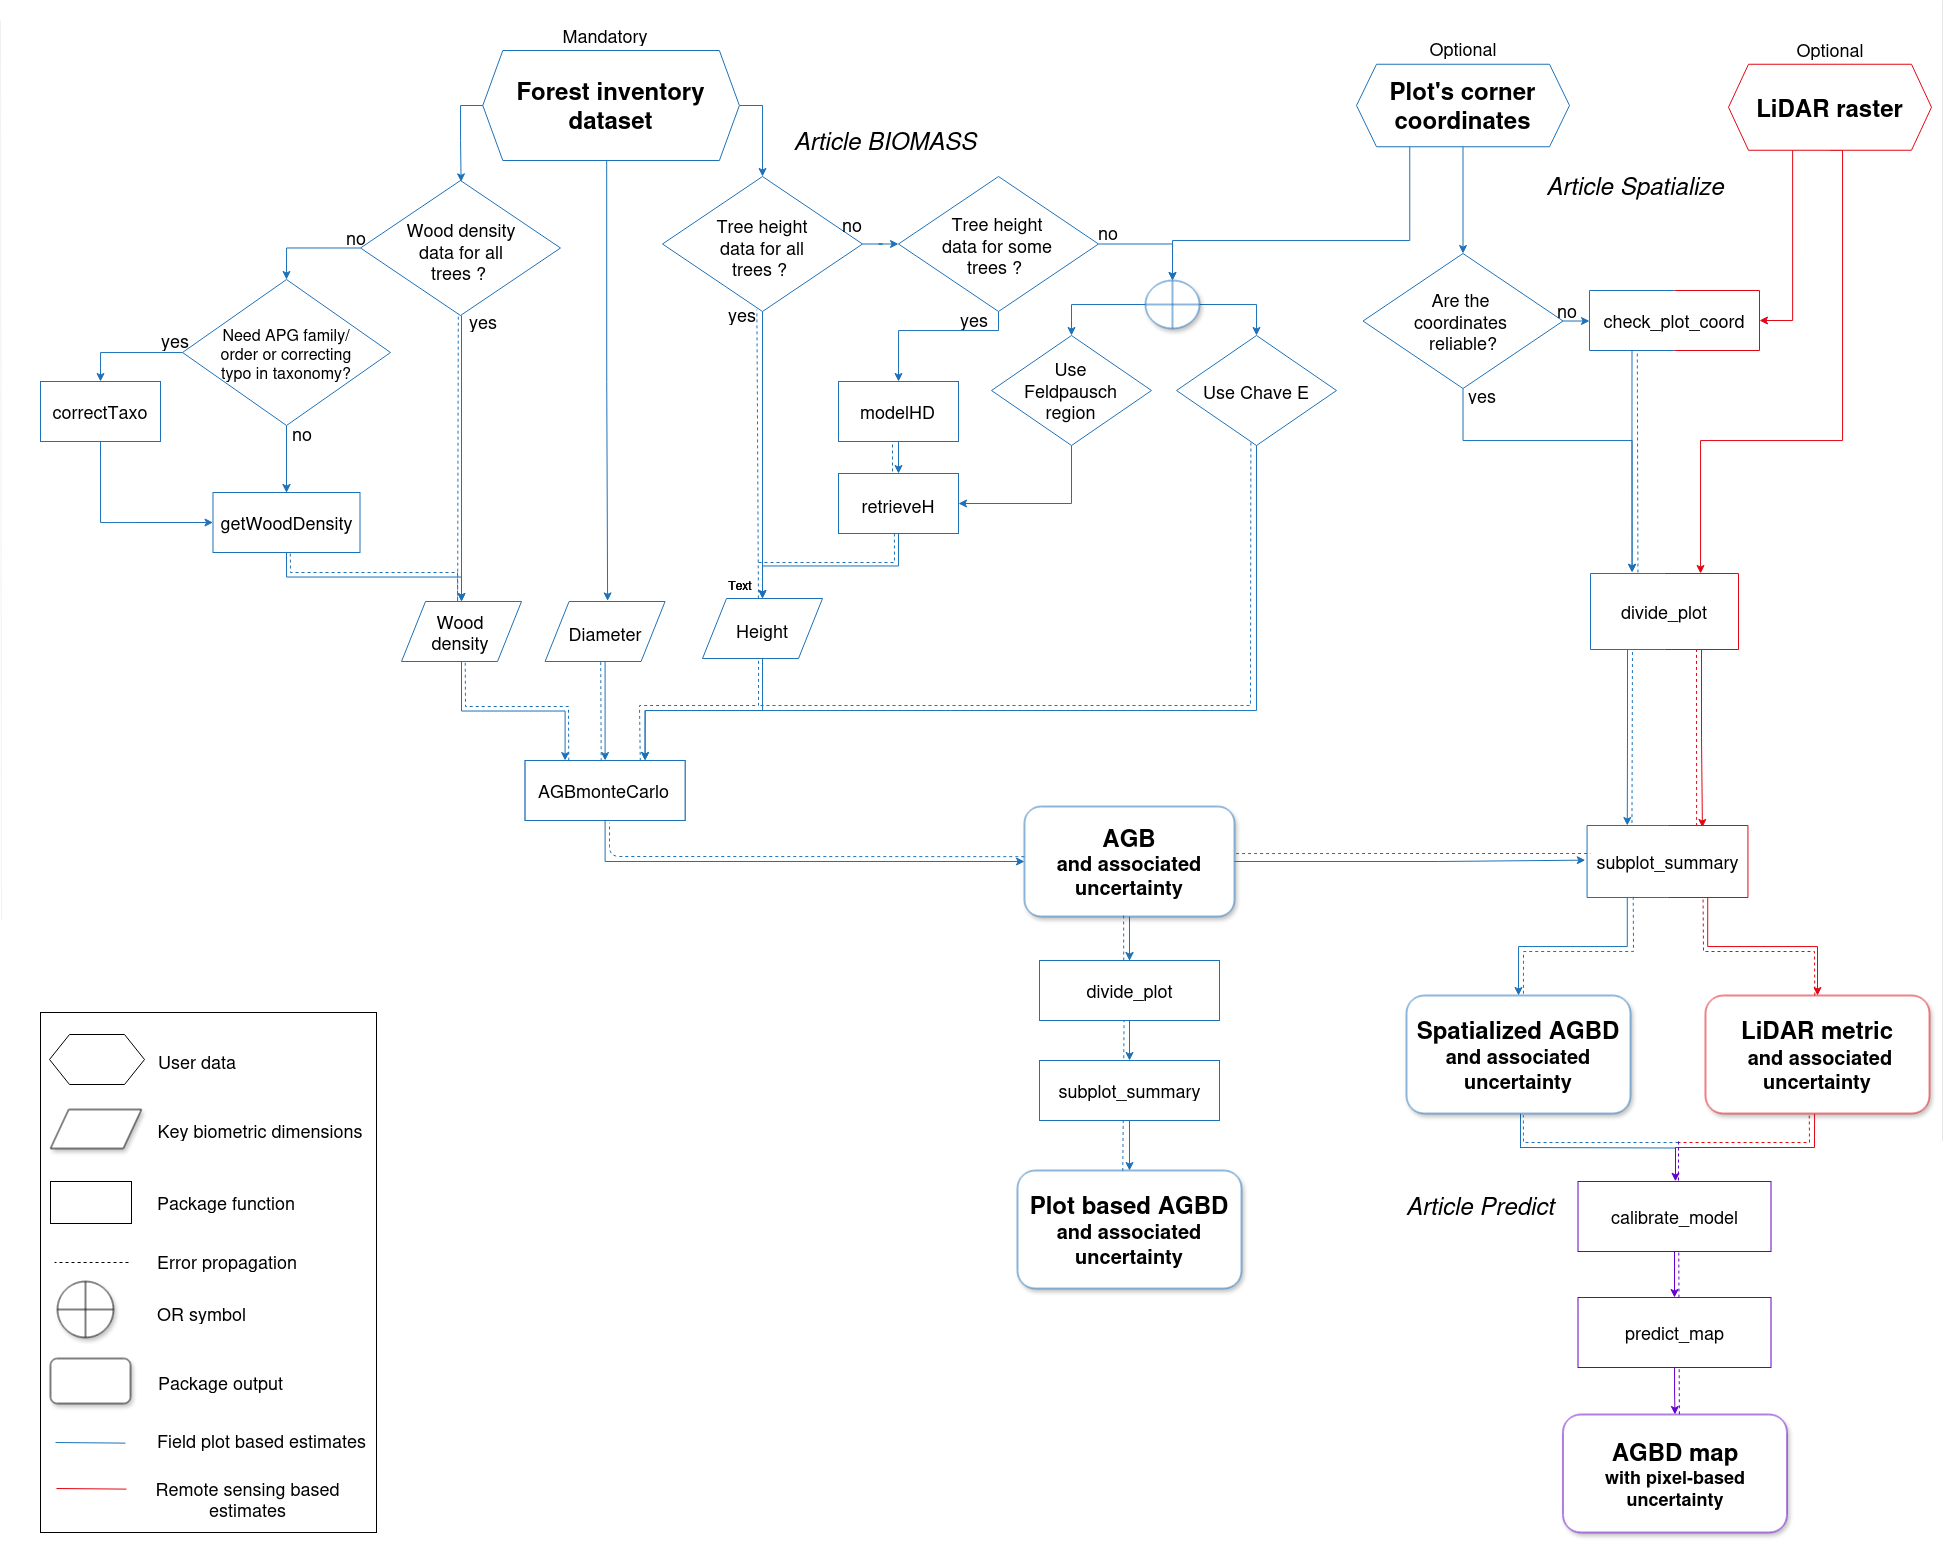
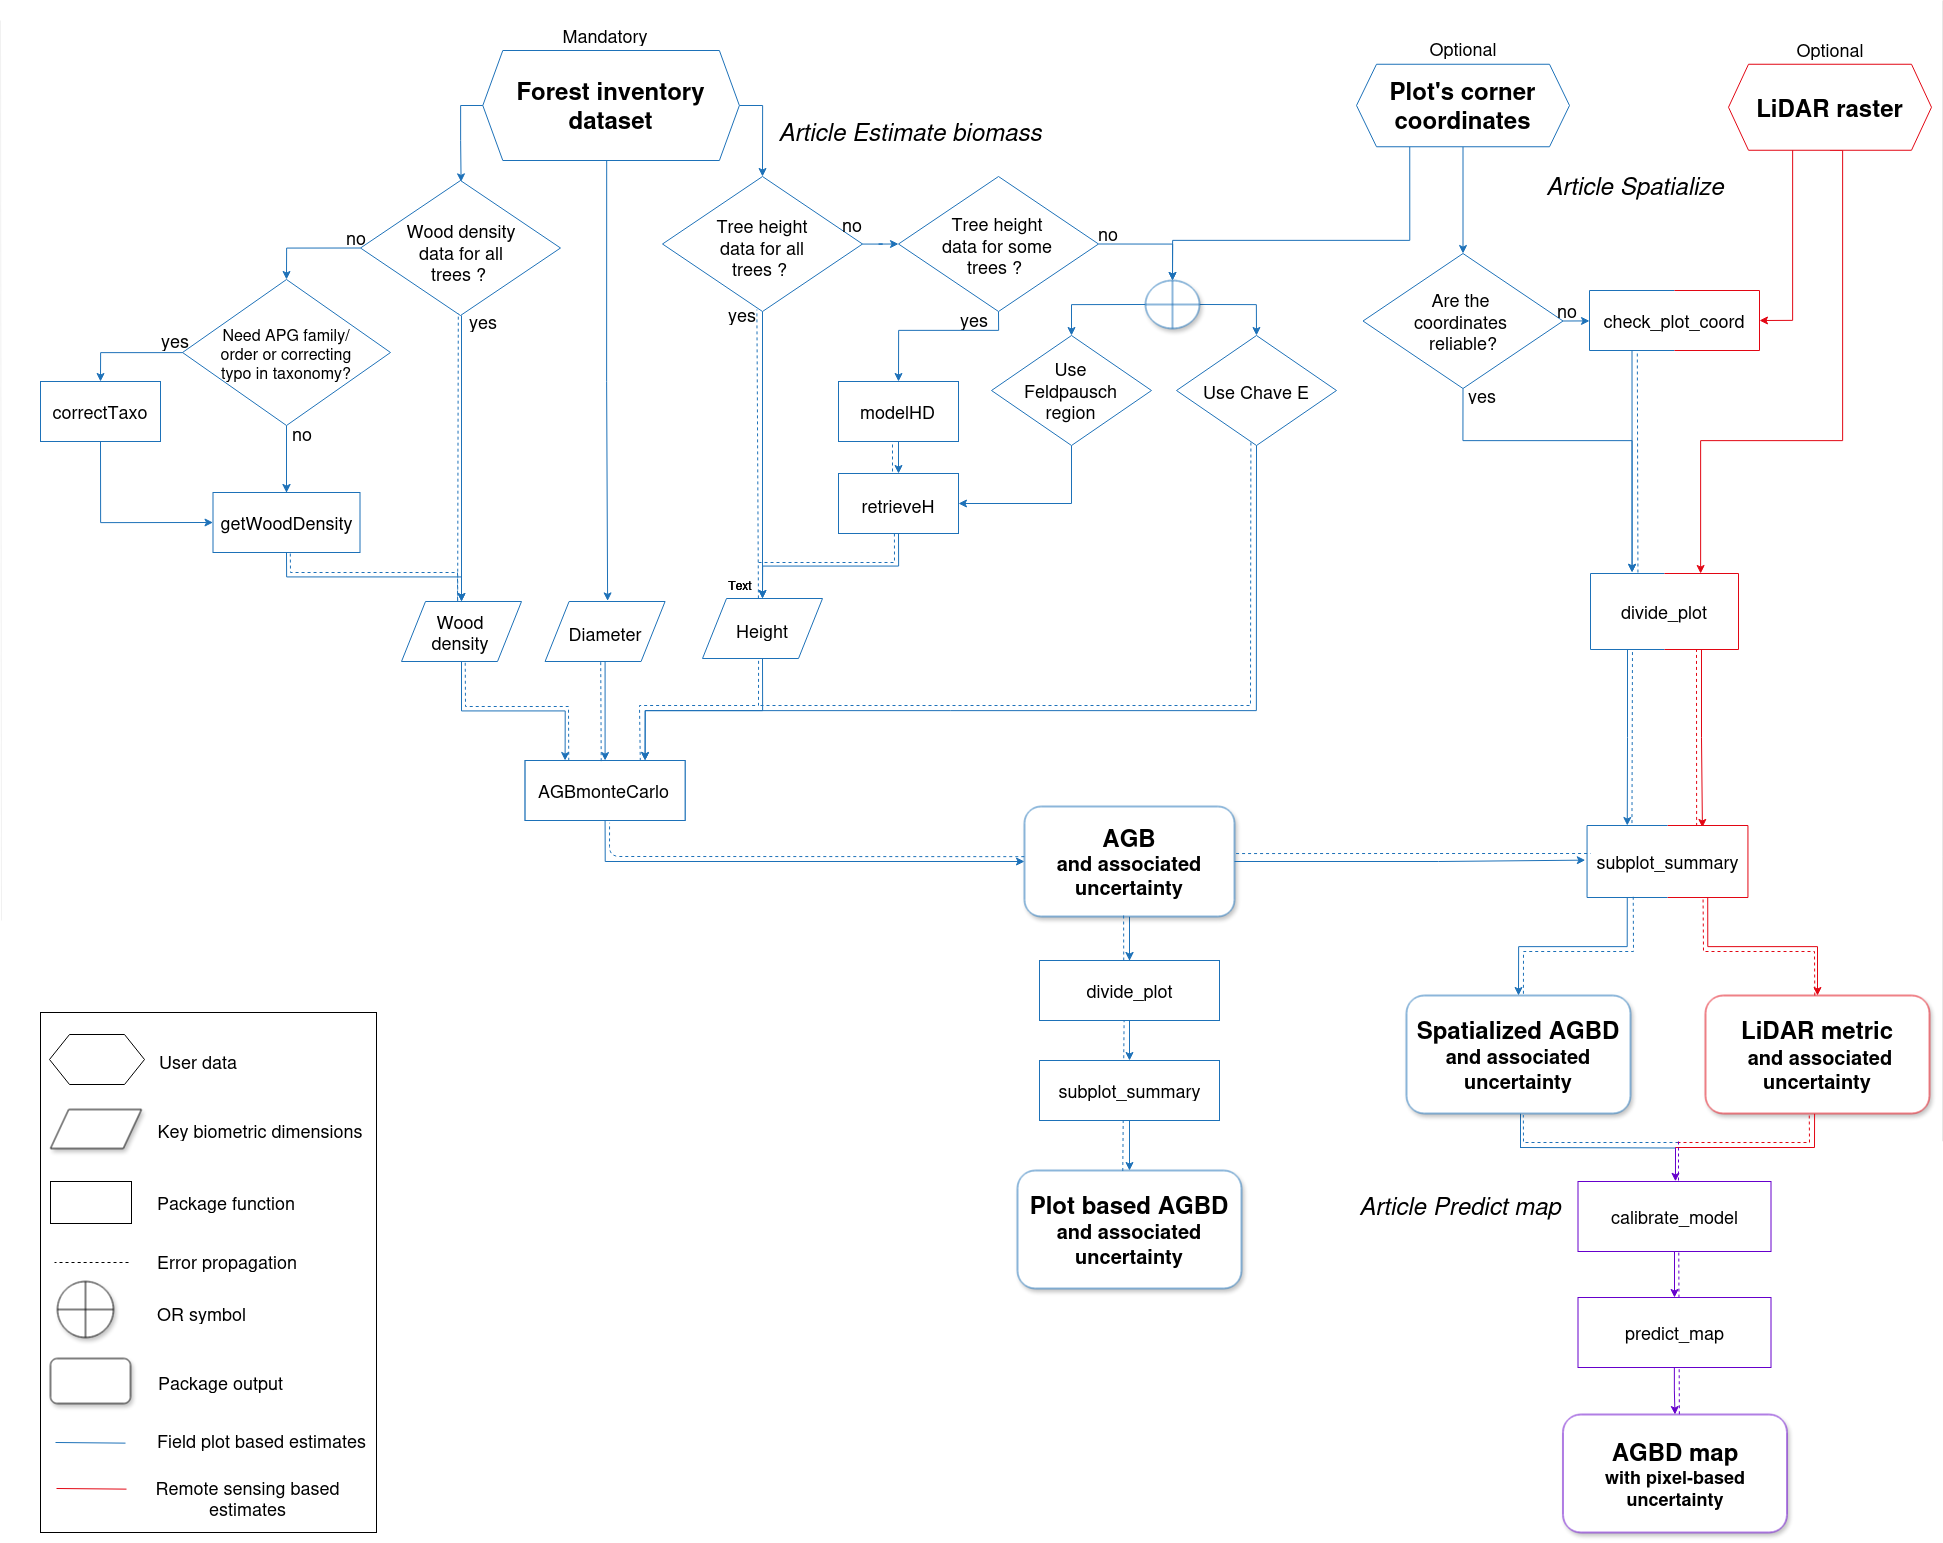
Deploying to gh-pages from @ umr-amap/BIOMASS@d51a38ecaa00d266235edc8b0b0a9cfb012f946a 🚀

diff --git a/articles/Vignette_BIOMASS.html b/articles/Vignette_BIOMASS.html
@@ -5,7 +5,7 @@
 <meta charset="utf-8">
 <meta http-equiv="X-UA-Compatible" content="IE=edge">
 <meta name="viewport" content="width=device-width, initial-scale=1, shrink-to-fit=no">
-<title>Estimating stand biomass • BIOMASS</title>
+<title>Estimate stand biomass • BIOMASS</title>
 <!-- favicons --><link rel="icon" type="image/png" sizes="96x96" href="../favicon-96x96.png">
 <link rel="icon" type="”image/svg+xml”" href="../favicon.svg">
 <link rel="apple-touch-icon" sizes="180x180" href="../apple-touch-icon.png">
@@ -15,10 +15,10 @@
 <link href="../deps/bootstrap-5.3.1/bootstrap.min.css" rel="stylesheet">
 <script src="../deps/bootstrap-5.3.1/bootstrap.bundle.min.js"></script><link href="../deps/font-awesome-6.5.2/css/all.min.css" rel="stylesheet">
 <link href="../deps/font-awesome-6.5.2/css/v4-shims.min.css" rel="stylesheet">
-<script src="../deps/headroom-0.11.0/headroom.min.js"></script><script src="../deps/headroom-0.11.0/jQuery.headroom.min.js"></script><script src="../deps/bootstrap-toc-1.0.1/bootstrap-toc.min.js"></script><script src="../deps/clipboard.js-2.0.11/clipboard.min.js"></script><script src="../deps/search-1.0.0/autocomplete.jquery.min.js"></script><script src="../deps/search-1.0.0/fuse.min.js"></script><script src="../deps/search-1.0.0/mark.min.js"></script><!-- pkgdown --><script src="../pkgdown.js"></script><meta property="og:title" content="Estimating stand biomass">
-<meta name="description" content="Estimating above ground biomass with BIOMASS
+<script src="../deps/headroom-0.11.0/headroom.min.js"></script><script src="../deps/headroom-0.11.0/jQuery.headroom.min.js"></script><script src="../deps/bootstrap-toc-1.0.1/bootstrap-toc.min.js"></script><script src="../deps/clipboard.js-2.0.11/clipboard.min.js"></script><script src="../deps/search-1.0.0/autocomplete.jquery.min.js"></script><script src="../deps/search-1.0.0/fuse.min.js"></script><script src="../deps/search-1.0.0/mark.min.js"></script><!-- pkgdown --><script src="../pkgdown.js"></script><meta property="og:title" content="Estimate stand biomass">
+<meta name="description" content="Estime above ground biomass with BIOMASS
 ">
-<meta property="og:description" content="Estimating above ground biomass with BIOMASS
+<meta property="og:description" content="Estime above ground biomass with BIOMASS
 ">
 <meta property="og:image" content="https://umr-amap.github.io/BIOMASS/logo.png">
 </head>
@@ -42,7 +42,7 @@
 <li class="active nav-item dropdown">
   <button class="nav-link dropdown-toggle" type="button" id="dropdown-articles" data-bs-toggle="dropdown" aria-expanded="false" aria-haspopup="true">Articles</button>
   <ul class="dropdown-menu" aria-labelledby="dropdown-articles">
-<li><a class="dropdown-item" href="../articles/Vignette_BIOMASS.html">Estimating stand biomass</a></li>
+<li><a class="dropdown-item" href="../articles/Vignette_BIOMASS.html">Estimate stand biomass</a></li>
     <li><a class="dropdown-item" href="../articles/Vignette_spatialized_trees_and_forest_stand_metrics.html">Spatialize trees and forest stand metrics with BIOMASS</a></li>
     <li><a class="dropdown-item" href="../articles/Vignette_predict_map_AGBD.html">Predict maps of AGBD based on inventory and LiDAR data</a></li>
   </ul>
@@ -66,11 +66,11 @@
 
 <div class="row">
   <main id="main" class="col-md-9"><div class="page-header">
-      <img src="../logo.png" class="logo" alt=""><h1>Estimating stand biomass</h1>
+      <img src="../logo.png" class="logo" alt=""><h1>Estimate stand biomass</h1>
                         <h4 data-toc-skip class="author">Arthur
 Bailly</h4>
             
-            <h4 data-toc-skip class="date">2026-04-28</h4>
+            <h4 data-toc-skip class="date">2026-04-30</h4>
       
       <small class="dont-index">Source: <a href="https://github.com/umr-amap/BIOMASS/blob/master/vignettes/Vignette_BIOMASS.Rmd" class="external-link"><code>vignettes/Vignette_BIOMASS.Rmd</code></a></small>
       <div class="d-none name"><code>Vignette_BIOMASS.Rmd</code></div>
@@ -85,14 +85,15 @@ Bailly</h4>
 (<a href="https://besjournals.onlinelibrary.wiley.com/doi/10.1111/2041-210X.12753" class="external-link">Réjou-Méchain
 et al. 2017</a>), the three articles comprised in the vignette follow
 the same workflow as presented in the paper:</p>
-<p><img src="img/BIOMASS_workflow.png"> The first vignette (BIOMASS,
-the current one) is dedicated to compute above ground biomass (AGB) and
-its associated uncertainty from plot inventory data. The second one
-(Spatialize trees and forest stand metrics) explains how to manage plot
-coordinates and summarize AGB and/or LiDAR metrics at subplot level. The
-third one (Predict maps of AGBD based on inventory and LiDAR data)
-guides the user through the last steps of the workflow to get AGBD maps
-from spatialized AGBD and spatialized LiDAR metrics.</p>
+<p><img src="img/BIOMASS_workflow.png"> The first vignette (Estimate
+stand biomass, the current one) is dedicated to compute above ground
+biomass (AGB) and its associated uncertainty from plot inventory data.
+The second one (Spatialize trees and forest stand metrics) explains how
+to manage plot coordinates and summarize AGB and/or LiDAR metrics at
+subplot level. The third one (Predict maps of AGBD based on inventory
+and LiDAR data) guides the user through the last steps of the workflow
+to get AGBD maps from spatialized AGBD and spatialized LiDAR
+metrics.</p>
 </div>
 <div class="section level2">
 <h2 id="general-workflow-and-required-data">General workflow and required data<a class="anchor" aria-label="anchor" href="#general-workflow-and-required-data"></a>
@@ -696,7 +697,7 @@ with the default arguments:</p>
 <p>As one can see, the two first parameters a and b (resp. called
 <code>b_a_Intercept</code> and <code>b_b_Intercept</code>) of the
 Weibull equation:
-<math display="block" xmlns="http://www.w3.org/1998/Math/MathML"><semantics><mrow><mi>H</mi><mo>=</mo><mi>a</mi><mo>⋅</mo><mrow><mo stretchy="true" form="prefix">(</mo><mn>1</mn><mo>−</mo><mi>e</mi><mi>x</mi><mi>p</mi><mrow><mo stretchy="true" form="prefix">(</mo><mo>−</mo><msup><mrow><mo stretchy="true" form="prefix">(</mo><mi>D</mi><mi>/</mi><mi>b</mi><mo stretchy="true" form="postfix">)</mo></mrow><mi>c</mi></msup><mo stretchy="true" form="postfix">)</mo></mrow><mo stretchy="true" form="postfix">)</mo></mrow></mrow><annotation encoding="application/x-tex">H=a  \cdot (1-exp(-(D/b)^c))</annotation></semantics></math>
+<math display="block" xmlns="http://www.w3.org/1998/Math/MathML"><semantics><mrow><mi>H</mi><mo>=</mo><mi>a</mi><mo>⋅</mo><mo stretchy="false" form="prefix">(</mo><mn>1</mn><mo>−</mo><mi>e</mi><mi>x</mi><mi>p</mi><mo stretchy="false" form="prefix">(</mo><mi>−</mi><mo stretchy="false" form="prefix">(</mo><mi>D</mi><mi>/</mi><mi>b</mi><msup><mo stretchy="false" form="postfix">)</mo><mi>c</mi></msup><mo stretchy="false" form="postfix">)</mo><mo stretchy="false" form="postfix">)</mo></mrow><annotation encoding="application/x-tex">H=a  \cdot (1-exp(-(D/b)^c))</annotation></semantics></math>
 are strongly correlated. Therefore, it is strongly recommended to define
 priors that do not allow for unrealistic values. To do this, we need to
 examine the meanings of the Weibull parameters:</p>

diff --git a/articles/Vignette_predict_map_AGBD.html b/articles/Vignette_predict_map_AGBD.html
@@ -37,7 +37,7 @@
 <li class="active nav-item dropdown">
   <button class="nav-link dropdown-toggle" type="button" id="dropdown-articles" data-bs-toggle="dropdown" aria-expanded="false" aria-haspopup="true">Articles</button>
   <ul class="dropdown-menu" aria-labelledby="dropdown-articles">
-<li><a class="dropdown-item" href="../articles/Vignette_BIOMASS.html">Estimating stand biomass</a></li>
+<li><a class="dropdown-item" href="../articles/Vignette_BIOMASS.html">Estimate stand biomass</a></li>
     <li><a class="dropdown-item" href="../articles/Vignette_spatialized_trees_and_forest_stand_metrics.html">Spatialize trees and forest stand metrics with BIOMASS</a></li>
     <li><a class="dropdown-item" href="../articles/Vignette_predict_map_AGBD.html">Predict maps of AGBD based on inventory and LiDAR data</a></li>
   </ul>
@@ -65,7 +65,7 @@
                         <h4 data-toc-skip class="author">Dominique
 Lamonica</h4>
             
-            <h4 data-toc-skip class="date">2026-04-28</h4>
+            <h4 data-toc-skip class="date">2026-04-30</h4>
       
       <small class="dont-index">Source: <a href="https://github.com/umr-amap/BIOMASS/blob/master/vignettes/Vignette_predict_map_AGBD.Rmd" class="external-link"><code>vignettes/Vignette_predict_map_AGBD.Rmd</code></a></small>
       <div class="d-none name"><code>Vignette_predict_map_AGBD.Rmd</code></div>
@@ -104,20 +104,20 @@ and <a href="https://doi.org/10.1016/j.rse.2024.114557" class="external-link">Hu
 2025</a>).</p>
 <p>The general equation can be written as follow, for a subplot
 <math display="inline" xmlns="http://www.w3.org/1998/Math/MathML"><semantics><msub><mi>s</mi><mi>i</mi></msub><annotation encoding="application/x-tex">s_i</annotation></semantics></math>:</p>
-<p><math display="block" xmlns="http://www.w3.org/1998/Math/MathML"><semantics><mtable><mtr><mtd columnalign="right" style="text-align: right"><msub><mi>Y</mi><mi>i</mi></msub></mtd><mtd columnalign="left" style="text-align: left"><mo>∼</mo><mi mathvariant="normal">N</mi><mrow><mo stretchy="true" form="prefix">(</mo><msub><mi>μ</mi><mi>i</mi></msub><mo>,</mo><mi>σ</mi><mo stretchy="true" form="postfix">)</mo></mrow></mtd></mtr><mtr><mtd columnalign="right" style="text-align: right"><msub><mi>μ</mi><mi>i</mi></msub></mtd><mtd columnalign="left" style="text-align: left"><mo>=</mo><msub><mi>β</mi><mn>0</mn></msub><mo>+</mo><mrow><mo stretchy="true" form="prefix">(</mo><msub><mi>β</mi><mn>1</mn></msub><mo>+</mo><msub><mi>η</mi><mi>i</mi></msub><mo stretchy="true" form="postfix">)</mo></mrow><mo>×</mo><msub><mi>X</mi><mi>i</mi></msub></mtd></mtr><mtr><mtd columnalign="right" style="text-align: right"><msub><mi>η</mi><mi>i</mi></msub></mtd><mtd columnalign="left" style="text-align: left"><mo>∼</mo><mrow><mi mathvariant="normal">M</mi><mi mathvariant="normal">V</mi><mi mathvariant="normal">N</mi><mi mathvariant="normal">o</mi><mi mathvariant="normal">r</mi><mi mathvariant="normal">m</mi><mi mathvariant="normal">a</mi><mi mathvariant="normal">l</mi></mrow><mrow><mo stretchy="true" form="prefix">(</mo><mn>0</mn><mo>,</mo><mi>Σ</mi><mo stretchy="true" form="postfix">)</mo></mrow></mtd></mtr></mtable><annotation encoding="application/x-tex">\begin{align*}
+<p><math display="block" xmlns="http://www.w3.org/1998/Math/MathML"><semantics><mtable><mtr><mtd columnalign="right" style="text-align: right; padding-right: 0"><msub><mi>Y</mi><mi>i</mi></msub></mtd><mtd columnalign="left" style="text-align: left; padding-left: 0"><mo>∼</mo><mi mathvariant="normal">N</mi><mo stretchy="false" form="prefix">(</mo><msub><mi>μ</mi><mi>i</mi></msub><mo>,</mo><mi>σ</mi><mo stretchy="false" form="postfix">)</mo></mtd></mtr><mtr><mtd columnalign="right" style="text-align: right; padding-right: 0"><msub><mi>μ</mi><mi>i</mi></msub></mtd><mtd columnalign="left" style="text-align: left; padding-left: 0"><mo>=</mo><msub><mi>β</mi><mn>0</mn></msub><mo>+</mo><mo stretchy="false" form="prefix">(</mo><msub><mi>β</mi><mn>1</mn></msub><mo>+</mo><msub><mi>η</mi><mi>i</mi></msub><mo stretchy="false" form="postfix">)</mo><mo>×</mo><msub><mi>X</mi><mi>i</mi></msub></mtd></mtr><mtr><mtd columnalign="right" style="text-align: right; padding-right: 0"><msub><mi>η</mi><mi>i</mi></msub></mtd><mtd columnalign="left" style="text-align: left; padding-left: 0"><mo>∼</mo><mrow><mi mathvariant="normal">M</mi><mi mathvariant="normal">V</mi><mi mathvariant="normal">N</mi><mi mathvariant="normal">o</mi><mi mathvariant="normal">r</mi><mi mathvariant="normal">m</mi><mi mathvariant="normal">a</mi><mi mathvariant="normal">l</mi></mrow><mo stretchy="false" form="prefix">(</mo><mn>0</mn><mo>,</mo><mi mathvariant="normal">Σ</mi><mo stretchy="false" form="postfix">)</mo></mtd></mtr></mtable><annotation encoding="application/x-tex">\begin{align*}
 Y_i &amp;\sim \mathrm{N}(\mu_i, \sigma) \\
 \mu_i &amp;= \beta_0 + (\beta_1 + \eta_i) \times X_i \\
 \eta_i &amp;\sim \mathrm{MVNormal}(0, \Sigma)
 \end{align*}</annotation></semantics></math></p>
 <p>where
-<math display="inline" xmlns="http://www.w3.org/1998/Math/MathML"><semantics><mi>Σ</mi><annotation encoding="application/x-tex">\Sigma</annotation></semantics></math>,
+<math display="inline" xmlns="http://www.w3.org/1998/Math/MathML"><semantics><mi mathvariant="normal">Σ</mi><annotation encoding="application/x-tex">\Sigma</annotation></semantics></math>,
 the covariance matrix, is defined by the
 <math display="inline" xmlns="http://www.w3.org/1998/Math/MathML"><semantics><mfrac><mn>3</mn><mn>2</mn></mfrac><annotation encoding="application/x-tex">\frac{3}{2}</annotation></semantics></math>
 Màtern kernel between two locations
 <math display="inline" xmlns="http://www.w3.org/1998/Math/MathML"><semantics><msub><mi>s</mi><mi>i</mi></msub><annotation encoding="application/x-tex">s_i</annotation></semantics></math>
 and
 <math display="inline" xmlns="http://www.w3.org/1998/Math/MathML"><semantics><msub><mi>s</mi><mi>j</mi></msub><annotation encoding="application/x-tex">s_j</annotation></semantics></math>:</p>
-<p><math display="block" xmlns="http://www.w3.org/1998/Math/MathML"><semantics><mrow><mi>k</mi><mrow><mo stretchy="true" form="prefix">(</mo><msub><mi>𝐬</mi><mi>i</mi></msub><mo>,</mo><msub><mi>𝐬</mi><mi>j</mi></msub><mo stretchy="true" form="postfix">)</mo></mrow><mo>=</mo><msup><mi>ψ</mi><mn>2</mn></msup><mrow><mo stretchy="true" form="prefix">(</mo><mn>1</mn><mo>+</mo><mfrac><mrow><msqrt><mn>3</mn></msqrt><msub><mi>d</mi><mrow><mi>i</mi><mo>,</mo><mi>j</mi></mrow></msub></mrow><mi>l</mi></mfrac><mo stretchy="true" form="postfix">)</mo></mrow><mo>exp</mo><mrow><mo stretchy="true" form="prefix">(</mo><mo>−</mo><mfrac><mrow><msqrt><mn>3</mn></msqrt><msub><mi>d</mi><mrow><mi>i</mi><mo>,</mo><mi>j</mi></mrow></msub></mrow><mi>l</mi></mfrac><mo stretchy="true" form="postfix">)</mo></mrow></mrow><annotation encoding="application/x-tex">
+<p><math display="block" xmlns="http://www.w3.org/1998/Math/MathML"><semantics><mrow><mi>k</mi><mo stretchy="false" form="prefix">(</mo><msub><mi>𝐬</mi><mi>i</mi></msub><mo>,</mo><msub><mi>𝐬</mi><mi>j</mi></msub><mo stretchy="false" form="postfix">)</mo><mo>=</mo><msup><mi>ψ</mi><mn>2</mn></msup><mrow><mo stretchy="true" form="prefix">(</mo><mn>1</mn><mo>+</mo><mfrac><mrow><msqrt><mn>3</mn></msqrt><msub><mi>d</mi><mrow><mi>i</mi><mo>,</mo><mi>j</mi></mrow></msub></mrow><mi>l</mi></mfrac><mo stretchy="true" form="postfix">)</mo></mrow><mrow><mi mathvariant="normal">exp</mi><mo></mo></mrow><mrow><mo stretchy="true" form="prefix">(</mo><mi>−</mi><mfrac><mrow><msqrt><mn>3</mn></msqrt><msub><mi>d</mi><mrow><mi>i</mi><mo>,</mo><mi>j</mi></mrow></msub></mrow><mi>l</mi></mfrac><mo stretchy="true" form="postfix">)</mo></mrow></mrow><annotation encoding="application/x-tex">
 k(\mathbf{s}_i, \mathbf{s}_j) = \psi^2 \left( 1 + \frac{\sqrt{3}d_{i,j}}{l} \right) \exp \left( -\frac{\sqrt{3}d_{i,j}}{l} \right)
 </annotation></semantics></math></p>
 <p><math display="inline" xmlns="http://www.w3.org/1998/Math/MathML"><semantics><msub><mi>d</mi><mrow><mi>i</mi><mo>,</mo><mi>j</mi></mrow></msub><annotation encoding="application/x-tex">d_{i,j}</annotation></semantics></math>

diff --git a/articles/index.html b/articles/index.html
@@ -17,7 +17,7 @@
     <div id="navbar" class="collapse navbar-collapse ms-3">
       <ul class="navbar-nav me-auto"><li class="nav-item dropdown">
   <button class="nav-link dropdown-toggle" type="button" id="dropdown-articles" data-bs-toggle="dropdown" aria-expanded="false" aria-haspopup="true">Articles</button>
-  <ul class="dropdown-menu" aria-labelledby="dropdown-articles"><li><a class="dropdown-item" href="../articles/Vignette_BIOMASS.html">Estimating stand biomass</a></li>
+  <ul class="dropdown-menu" aria-labelledby="dropdown-articles"><li><a class="dropdown-item" href="../articles/Vignette_BIOMASS.html">Estimate stand biomass</a></li>
     <li><a class="dropdown-item" href="../articles/Vignette_spatialized_trees_and_forest_stand_metrics.html">Spatialize trees and forest stand metrics with BIOMASS</a></li>
     <li><a class="dropdown-item" href="../articles/Vignette_predict_map_AGBD.html">Predict maps of AGBD based on inventory and LiDAR data</a></li>
   </ul></li>
@@ -39,8 +39,8 @@
       <h3>Vignettes</h3>
       <div class="section-desc"></div>
 
-      <dl><dt><a href="Vignette_BIOMASS.html">Estimating stand biomass</a></dt>
-        <dd><p>Estimating above ground biomass with BIOMASS</p>
+      <dl><dt><a href="Vignette_BIOMASS.html">Estimate stand biomass</a></dt>
+        <dd><p>Estime above ground biomass with BIOMASS</p>
         </dd><dt><a href="Vignette_spatialized_trees_and_forest_stand_metrics.html">Spatialize trees and forest stand metrics with BIOMASS</a></dt>
         <dd>
         </dd><dt><a href="Vignette_predict_map_AGBD.html">Predict maps of AGBD based on inventory and LiDAR data</a></dt>

diff --git a/articles/Vignette_spatialized_trees_and_forest_stand_metrics.html b/articles/Vignette_spatialized_trees_and_forest_stand_metrics.html
@@ -37,7 +37,7 @@
 <li class="active nav-item dropdown">
   <button class="nav-link dropdown-toggle" type="button" id="dropdown-articles" data-bs-toggle="dropdown" aria-expanded="false" aria-haspopup="true">Articles</button>
   <ul class="dropdown-menu" aria-labelledby="dropdown-articles">
-<li><a class="dropdown-item" href="../articles/Vignette_BIOMASS.html">Estimating stand biomass</a></li>
+<li><a class="dropdown-item" href="../articles/Vignette_BIOMASS.html">Estimate stand biomass</a></li>
     <li><a class="dropdown-item" href="../articles/Vignette_spatialized_trees_and_forest_stand_metrics.html">Spatialize trees and forest stand metrics with BIOMASS</a></li>
     <li><a class="dropdown-item" href="../articles/Vignette_predict_map_AGBD.html">Predict maps of AGBD based on inventory and LiDAR data</a></li>
   </ul>
@@ -65,7 +65,7 @@
                         <h4 data-toc-skip class="author">Arthur
 Bailly</h4>
             
-            <h4 data-toc-skip class="date">2026-04-28</h4>
+            <h4 data-toc-skip class="date">2026-04-30</h4>
       
       <small class="dont-index">Source: <a href="https://github.com/umr-amap/BIOMASS/blob/master/vignettes/Vignette_spatialized_trees_and_forest_stand_metrics.Rmd" class="external-link"><code>vignettes/Vignette_spatialized_trees_and_forest_stand_metrics.Rmd</code></a></small>
       <div class="d-none name"><code>Vignette_spatialized_trees_and_forest_stand_metrics.Rmd</code></div>

diff --git a/404.html b/404.html
@@ -38,7 +38,7 @@
 <li class="nav-item dropdown">
   <button class="nav-link dropdown-toggle" type="button" id="dropdown-articles" data-bs-toggle="dropdown" aria-expanded="false" aria-haspopup="true">Articles</button>
   <ul class="dropdown-menu" aria-labelledby="dropdown-articles">
-<li><a class="dropdown-item" href="https://umr-amap.github.io/BIOMASS/articles/Vignette_BIOMASS.html">Estimating stand biomass</a></li>
+<li><a class="dropdown-item" href="https://umr-amap.github.io/BIOMASS/articles/Vignette_BIOMASS.html">Estimate stand biomass</a></li>
     <li><a class="dropdown-item" href="https://umr-amap.github.io/BIOMASS/articles/Vignette_spatialized_trees_and_forest_stand_metrics.html">Spatialize trees and forest stand metrics with BIOMASS</a></li>
     <li><a class="dropdown-item" href="https://umr-amap.github.io/BIOMASS/articles/Vignette_predict_map_AGBD.html">Predict maps of AGBD based on inventory and LiDAR data</a></li>
   </ul>

diff --git a/authors.html b/authors.html
@@ -17,7 +17,7 @@
     <div id="navbar" class="collapse navbar-collapse ms-3">
       <ul class="navbar-nav me-auto"><li class="nav-item dropdown">
   <button class="nav-link dropdown-toggle" type="button" id="dropdown-articles" data-bs-toggle="dropdown" aria-expanded="false" aria-haspopup="true">Articles</button>
-  <ul class="dropdown-menu" aria-labelledby="dropdown-articles"><li><a class="dropdown-item" href="articles/Vignette_BIOMASS.html">Estimating stand biomass</a></li>
+  <ul class="dropdown-menu" aria-labelledby="dropdown-articles"><li><a class="dropdown-item" href="articles/Vignette_BIOMASS.html">Estimate stand biomass</a></li>
     <li><a class="dropdown-item" href="articles/Vignette_spatialized_trees_and_forest_stand_metrics.html">Spatialize trees and forest stand metrics with BIOMASS</a></li>
     <li><a class="dropdown-item" href="articles/Vignette_predict_map_AGBD.html">Predict maps of AGBD based on inventory and LiDAR data</a></li>
   </ul></li>

diff --git a/index.html b/index.html
@@ -40,7 +40,7 @@
 <li class="nav-item dropdown">
   <button class="nav-link dropdown-toggle" type="button" id="dropdown-articles" data-bs-toggle="dropdown" aria-expanded="false" aria-haspopup="true">Articles</button>
   <ul class="dropdown-menu" aria-labelledby="dropdown-articles">
-<li><a class="dropdown-item" href="articles/Vignette_BIOMASS.html">Estimating stand biomass</a></li>
+<li><a class="dropdown-item" href="articles/Vignette_BIOMASS.html">Estimate stand biomass</a></li>
     <li><a class="dropdown-item" href="articles/Vignette_spatialized_trees_and_forest_stand_metrics.html">Spatialize trees and forest stand metrics with BIOMASS</a></li>
     <li><a class="dropdown-item" href="articles/Vignette_predict_map_AGBD.html">Predict maps of AGBD based on inventory and LiDAR data</a></li>
   </ul>

diff --git a/reference/AGBmonteCarlo.html b/reference/AGBmonteCarlo.html
@@ -17,7 +17,7 @@
     <div id="navbar" class="collapse navbar-collapse ms-3">
       <ul class="navbar-nav me-auto"><li class="nav-item dropdown">
   <button class="nav-link dropdown-toggle" type="button" id="dropdown-articles" data-bs-toggle="dropdown" aria-expanded="false" aria-haspopup="true">Articles</button>
-  <ul class="dropdown-menu" aria-labelledby="dropdown-articles"><li><a class="dropdown-item" href="../articles/Vignette_BIOMASS.html">Estimating stand biomass</a></li>
+  <ul class="dropdown-menu" aria-labelledby="dropdown-articles"><li><a class="dropdown-item" href="../articles/Vignette_BIOMASS.html">Estimate stand biomass</a></li>
     <li><a class="dropdown-item" href="../articles/Vignette_spatialized_trees_and_forest_stand_metrics.html">Spatialize trees and forest stand metrics with BIOMASS</a></li>
     <li><a class="dropdown-item" href="../articles/Vignette_predict_map_AGBD.html">Predict maps of AGBD based on inventory and LiDAR data</a></li>
   </ul></li>

diff --git a/reference/BIOMASS-package.html b/reference/BIOMASS-package.html
@@ -21,7 +21,7 @@ Contains functions for estimating above-ground biomass/carbon and its uncertaint
     <div id="navbar" class="collapse navbar-collapse ms-3">
       <ul class="navbar-nav me-auto"><li class="nav-item dropdown">
   <button class="nav-link dropdown-toggle" type="button" id="dropdown-articles" data-bs-toggle="dropdown" aria-expanded="false" aria-haspopup="true">Articles</button>
-  <ul class="dropdown-menu" aria-labelledby="dropdown-articles"><li><a class="dropdown-item" href="../articles/Vignette_BIOMASS.html">Estimating stand biomass</a></li>
+  <ul class="dropdown-menu" aria-labelledby="dropdown-articles"><li><a class="dropdown-item" href="../articles/Vignette_BIOMASS.html">Estimate stand biomass</a></li>
     <li><a class="dropdown-item" href="../articles/Vignette_spatialized_trees_and_forest_stand_metrics.html">Spatialize trees and forest stand metrics with BIOMASS</a></li>
     <li><a class="dropdown-item" href="../articles/Vignette_predict_map_AGBD.html">Predict maps of AGBD based on inventory and LiDAR data</a></li>
   </ul></li>

diff --git a/reference/HDmethods.html b/reference/HDmethods.html
@@ -17,7 +17,7 @@
     <div id="navbar" class="collapse navbar-collapse ms-3">
       <ul class="navbar-nav me-auto"><li class="nav-item dropdown">
   <button class="nav-link dropdown-toggle" type="button" id="dropdown-articles" data-bs-toggle="dropdown" aria-expanded="false" aria-haspopup="true">Articles</button>
-  <ul class="dropdown-menu" aria-labelledby="dropdown-articles"><li><a class="dropdown-item" href="../articles/Vignette_BIOMASS.html">Estimating stand biomass</a></li>
+  <ul class="dropdown-menu" aria-labelledby="dropdown-articles"><li><a class="dropdown-item" href="../articles/Vignette_BIOMASS.html">Estimate stand biomass</a></li>
     <li><a class="dropdown-item" href="../articles/Vignette_spatialized_trees_and_forest_stand_metrics.html">Spatialize trees and forest stand metrics with BIOMASS</a></li>
     <li><a class="dropdown-item" href="../articles/Vignette_predict_map_AGBD.html">Predict maps of AGBD based on inventory and LiDAR data</a></li>
   </ul></li>

diff --git a/reference/NouraguesCoords.html b/reference/NouraguesCoords.html
@@ -17,7 +17,7 @@
     <div id="navbar" class="collapse navbar-collapse ms-3">
       <ul class="navbar-nav me-auto"><li class="nav-item dropdown">
   <button class="nav-link dropdown-toggle" type="button" id="dropdown-articles" data-bs-toggle="dropdown" aria-expanded="false" aria-haspopup="true">Articles</button>
-  <ul class="dropdown-menu" aria-labelledby="dropdown-articles"><li><a class="dropdown-item" href="../articles/Vignette_BIOMASS.html">Estimating stand biomass</a></li>
+  <ul class="dropdown-menu" aria-labelledby="dropdown-articles"><li><a class="dropdown-item" href="../articles/Vignette_BIOMASS.html">Estimate stand biomass</a></li>
     <li><a class="dropdown-item" href="../articles/Vignette_spatialized_trees_and_forest_stand_metrics.html">Spatialize trees and forest stand metrics with BIOMASS</a></li>
     <li><a class="dropdown-item" href="../articles/Vignette_predict_map_AGBD.html">Predict maps of AGBD based on inventory and LiDAR data</a></li>
   </ul></li>

diff --git a/reference/NouraguesHD.html b/reference/NouraguesHD.html
@@ -17,7 +17,7 @@
     <div id="navbar" class="collapse navbar-collapse ms-3">
       <ul class="navbar-nav me-auto"><li class="nav-item dropdown">
   <button class="nav-link dropdown-toggle" type="button" id="dropdown-articles" data-bs-toggle="dropdown" aria-expanded="false" aria-haspopup="true">Articles</button>
-  <ul class="dropdown-menu" aria-labelledby="dropdown-articles"><li><a class="dropdown-item" href="../articles/Vignette_BIOMASS.html">Estimating stand biomass</a></li>
+  <ul class="dropdown-menu" aria-labelledby="dropdown-articles"><li><a class="dropdown-item" href="../articles/Vignette_BIOMASS.html">Estimate stand biomass</a></li>
     <li><a class="dropdown-item" href="../articles/Vignette_spatialized_trees_and_forest_stand_metrics.html">Spatialize trees and forest stand metrics with BIOMASS</a></li>
     <li><a class="dropdown-item" href="../articles/Vignette_predict_map_AGBD.html">Predict maps of AGBD based on inventory and LiDAR data</a></li>
   </ul></li>